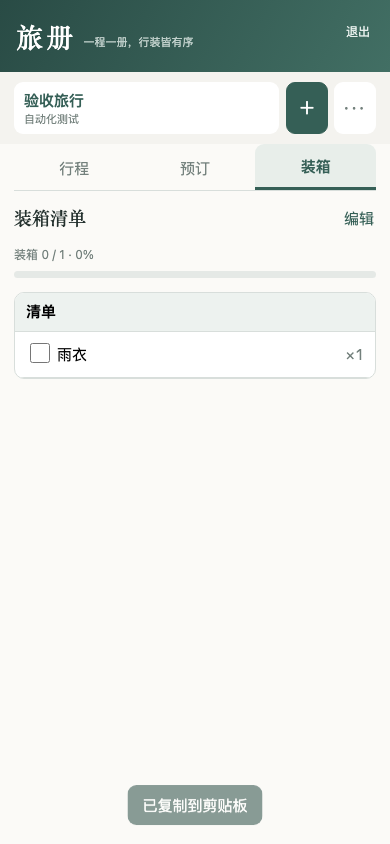
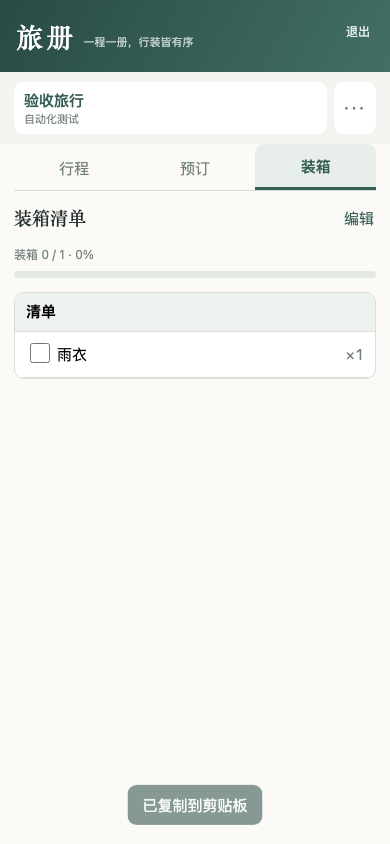
polish: move trip creation into overflow menu

Changed region(s): [[0.7077, 0.0924, 0.8615, 0.1848]]

diff --git a/app.js b/app.js
@@ -15,4 +15,4 @@ function renderCategory(cat){let node=$('#categoryTpl').content.firstElementChil
 function renderItem(cat,item){let r=document.createElement('label');r.className='item';r.innerHTML=`<span class="mobile-check"><input type="checkbox" ${item.packed?'checked':''}></span><input type="text" value="${attr(item.name)}"><input type="number" min="0" value="${item.qty}" aria-label="数量"><span class="item-qty">×${item.qty}</span><span class="check-cell"><input type="checkbox" ${item.packed?'checked':''}><button class="remove-item" type="button">×</button></span>`;let [mobileCheck,n,q,c]=r.querySelectorAll('input');mobileCheck.onchange=()=>{item.packed=mobileCheck.checked;save();render()};n.onchange=()=>{item.name=n.value;save()};q.onchange=()=>{item.qty=Math.max(0,+q.value||0);save()};c.onchange=()=>{item.packed=c.checked;save();render()};r.querySelector('button').onclick=()=>{cat.items=cat.items.filter(x=>x.id!==item.id);save();render()};return r}
 function renderProgress(){let all=trip().categories.flatMap(c=>c.items),done=all.filter(i=>i.packed).length,p=all.length?Math.round(done/all.length*100):0;$('#progressText').textContent=`装箱 ${done} / ${all.length} · ${p}%`;$('#progressBar').style.width=p+'%'}
 function closeMenu(el){el.closest('details')?.removeAttribute('open')}
-$('#printTrip').onclick=e=>{closeMenu(e.currentTarget);window.print()};$('#logout').onclick=async()=>{await fetch('/api/auth/logout',{method:'POST'});location.assign('/login')};let deleteDialog=$('#deleteDialog');$('#deleteTrip').onclick=e=>{closeMenu(e.currentTarget);let t=trip();if(state.trips.length===1)return alert('无法删除唯一一份旅行。请先新建或复制另一份旅行，再删除本旅行。');$('#deleteTripName').textContent=t.name;deleteDialog.dataset.tripId=t.id;deleteDialog.showModal()};$('#confirmDeleteTrip').onclick=()=>{let id=deleteDialog.dataset.tripId;if(state.trips.length<=1||!state.trips.some(t=>t.id===id))return;state.trips=state.trips.filter(t=>t.id!==id);state.active=state.trips[0].id;save();render();toast('旅行已删除')};$('#editToggle').onclick=()=>{editing=!editing;render()};$('#tripName').onchange=e=>{trip().name=e.target.value;save()};$('#tripMeta').onchange=e=>{trip().meta=e.target.value;save()};$('#reset').onclick=e=>{closeMenu(e.currentTarget);if(confirm('清空当前旅行的全部勾选？')){trip().categories.forEach(c=>c.items.forEach(i=>i.packed=false));save();render()}};$('#duplicate').onclick=e=>{closeMenu(e.currentTarget);let c=structuredClone(trip());c.id=uid('t');c.name+=' · 副本';c.categories.forEach(x=>x.items.forEach(i=>i.packed=false));state.trips.push(c);state.active=c.id;save();render()};let d=$('#tripDialog');$('#newTrip').onclick=()=>d.showModal();$('#createTrip').onclick=e=>{let n=$('#newName').value.trim();if(!n){e.preventDefault();return}let t={id:uid('t'),name:n,meta:$('#newMeta').value.trim(),categories:[],itinerary:[],transport:[],hotels:[],emergency:[],tour:[]};state.trips.push(t);state.active=t.id;save();render()};init();
+$('#printTrip').onclick=e=>{closeMenu(e.currentTarget);window.print()};$('#logout').onclick=async()=>{await fetch('/api/auth/logout',{method:'POST'});location.assign('/login')};let deleteDialog=$('#deleteDialog');$('#deleteTrip').onclick=e=>{closeMenu(e.currentTarget);let t=trip();if(state.trips.length===1)return alert('无法删除唯一一份旅行。请先新建或复制另一份旅行，再删除本旅行。');$('#deleteTripName').textContent=t.name;deleteDialog.dataset.tripId=t.id;deleteDialog.showModal()};$('#confirmDeleteTrip').onclick=()=>{let id=deleteDialog.dataset.tripId;if(state.trips.length<=1||!state.trips.some(t=>t.id===id))return;state.trips=state.trips.filter(t=>t.id!==id);state.active=state.trips[0].id;save();render();toast('旅行已删除')};$('#editToggle').onclick=()=>{editing=!editing;render()};$('#tripName').onchange=e=>{trip().name=e.target.value;save()};$('#tripMeta').onchange=e=>{trip().meta=e.target.value;save()};$('#reset').onclick=e=>{closeMenu(e.currentTarget);if(confirm('清空当前旅行的全部勾选？')){trip().categories.forEach(c=>c.items.forEach(i=>i.packed=false));save();render()}};$('#duplicate').onclick=e=>{closeMenu(e.currentTarget);let c=structuredClone(trip());c.id=uid('t');c.name+=' · 副本';c.categories.forEach(x=>x.items.forEach(i=>i.packed=false));state.trips.push(c);state.active=c.id;save();render()};let d=$('#tripDialog');$('#newTrip').onclick=e=>{closeMenu(e.currentTarget);d.showModal()};$('#createTrip').onclick=e=>{let n=$('#newName').value.trim();if(!n){e.preventDefault();return}let t={id:uid('t'),name:n,meta:$('#newMeta').value.trim(),categories:[],itinerary:[],transport:[],hotels:[],emergency:[],tour:[]};state.trips.push(t);state.active=t.id;save();render()};init();

diff --git a/index.html b/index.html
@@ -1,6 +1,6 @@
 <!doctype html><html lang="zh-CN"><head><meta charset="utf-8"><meta name="viewport" content="width=device-width,initial-scale=1"><meta name="theme-color" content="#355f56"><title>旅册</title><link rel="stylesheet" href="style.css"></head><body>
 <header><div><span class="eyebrow">TRAVEL PLANNER</span><div class="brand-line"><h1>旅册</h1><p id="subtitle">一程一册，行装皆有序</p></div></div><button id="logout" aria-label="退出账户">退出</button></header>
-<main><aside><div class="aside-title"><b>旅行计划</b></div><div class="trip-switcher"><nav id="tripList"></nav><div class="trip-actions"><button class="primary" id="newTrip" aria-label="新建旅行">＋<span> 新建</span></button><details class="menu toolbar-menu"><summary aria-label="更多操作">•••</summary><div class="menu-panel"><button id="duplicate">复制当前旅行</button><button id="printTrip">打印</button><button id="reset">清空装箱勾选</button><div class="menu-separator"></div><button class="danger" id="deleteTrip">删除旅行</button></div></details></div></div><div class="account-bar"><span>云端家庭共享 · <span id="syncStatus">正在读取…</span></span></div></aside>
+<main><aside><div class="aside-title"><b>旅行计划</b></div><div class="trip-switcher"><nav id="tripList"></nav><div class="trip-actions"><details class="menu toolbar-menu"><summary aria-label="更多操作">•••</summary><div class="menu-panel"><button id="newTrip">新建旅行</button><button id="duplicate">复制当前旅行</button><button id="printTrip">打印</button><button id="reset">清空装箱勾选</button><div class="menu-separator"></div><button class="danger" id="deleteTrip">删除旅行</button></div></details></div></div><div class="account-bar"><span>云端家庭共享 · <span id="syncStatus">正在读取…</span></span></div></aside>
 <section class="workspace"><div class="toolbar desktop-toolbar"><div><input id="tripName" aria-label="旅行名称"><input id="tripMeta" aria-label="日期地点" placeholder="日期 · 地点"></div></div><div class="tabs" id="tabs"><button data-tab="itinerary">行程</button><button data-tab="bookings"><span class="desktop-label">预订与联系人</span><span class="mobile-label">预订</span></button><button data-tab="packing"><span class="desktop-label">装箱清单</span><span class="mobile-label">装箱</span></button></div><div class="module-bar"><strong id="moduleTitle">每日行程</strong><button id="editToggle">编辑</button></div><div class="progress"><span id="progressText"></span><div><i id="progressBar"></i></div></div><div id="tabContent"></div></section></main>
 <dialog id="tripDialog"><form method="dialog"><h2>新建旅行</h2><label>旅行名称<input id="newName" required placeholder="例如：山海行"></label><label>日期与地点<input id="newMeta" placeholder="2026.10 · 厦门"></label><menu><button value="cancel">取消</button><button value="default" id="createTrip" class="primary">创建</button></menu></form></dialog>
 <dialog id="deleteDialog"><form method="dialog"><h2>删除旅行？</h2><p>将永久删除「<strong id="deleteTripName"></strong>」，并同步到云端。此操作无法撤销。</p><p class="dialog-warning">删除后无法恢复，请确认不再需要这份旅行。</p><menu><button value="cancel">取消</button><button value="confirm" id="confirmDeleteTrip" class="danger-solid">永久删除</button></menu></form></dialog>

diff --git a/style.css b/style.css
@@ -107,7 +107,6 @@ header #logout:hover{border-color:#fff;background:#ffffff20}
   .aside-title{margin:0 0 7px}
   .aside-title>b{display:none}
   .trip-actions{margin-left:auto}
-  #newTrip{padding:6px 10px}
   nav{position:relative;padding:0;display:block;overflow:visible}
   nav button{display:none}
   nav button.active{display:block;width:100%;min-width:0;padding:8px 44px 8px 10px;margin:0;box-shadow:none;background:#fff;border:1px solid var(--line)}
@@ -163,8 +162,6 @@ header #logout:hover{border-color:#fff;background:#ffffff20}
   nav button.active::after{right:11px}
   .trip-date{font-size:11px}
   .trip-actions{display:flex;gap:6px;align-items:stretch}
-  #newTrip{width:42px;padding:0;font-size:20px;border-radius:9px}
-  #newTrip span{display:none}
   .trip-actions .menu summary{height:52px;min-width:42px;border:0;background:#fff}
   .account-bar{display:none}
   .account-bar.important{display:block;margin-top:5px}
